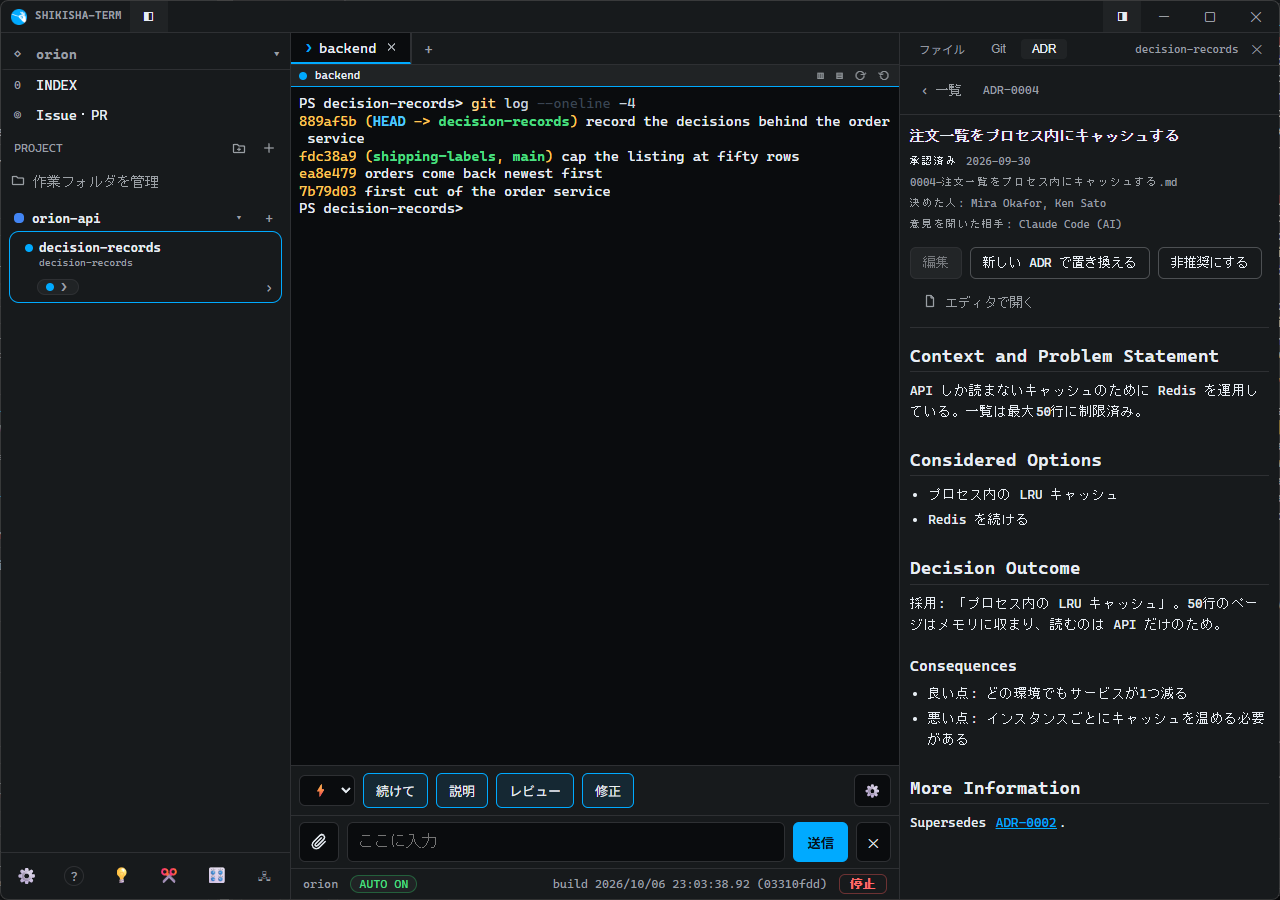
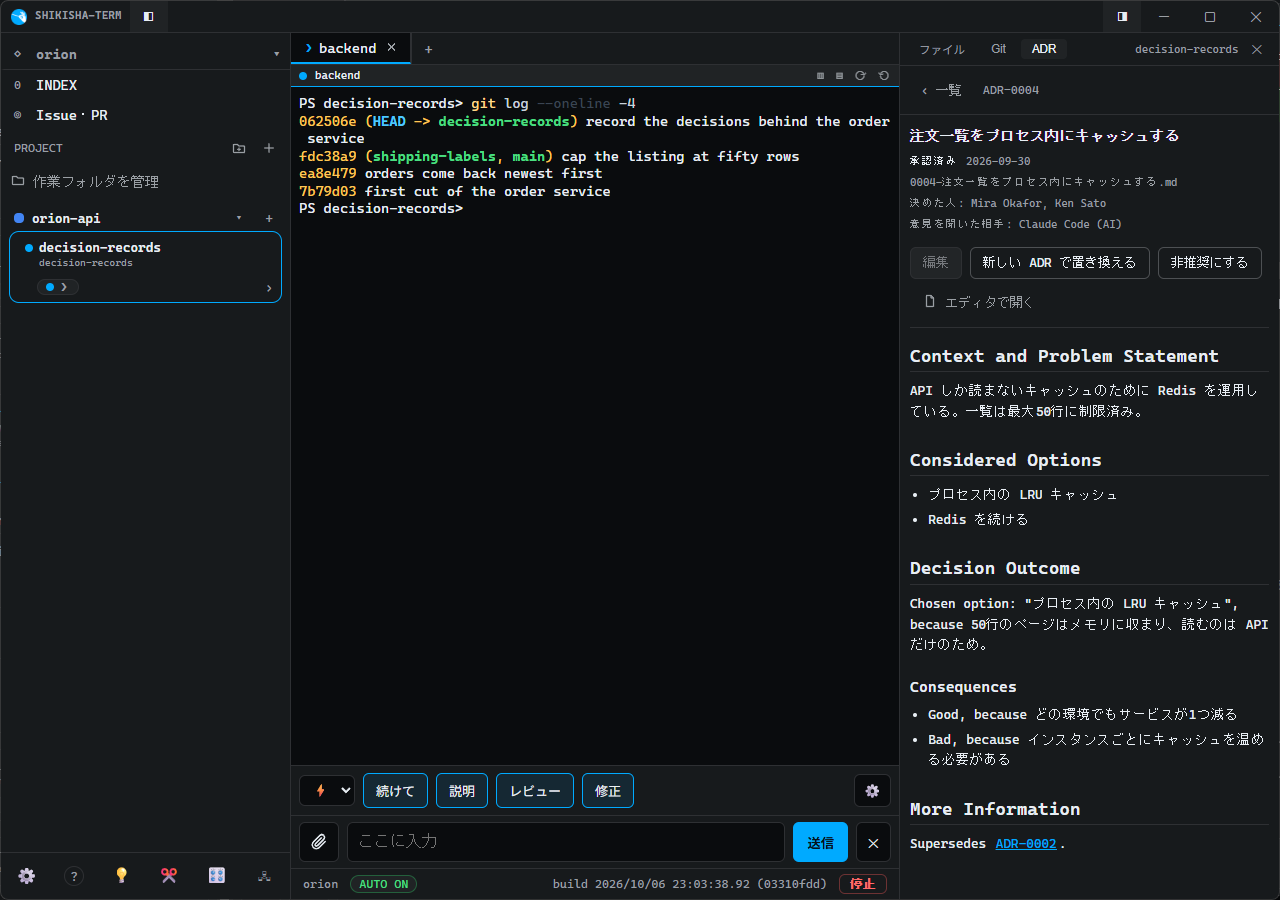
Draft decision records in MADR's own wording, and picture them that way

Changed region(s): [[0.6875, 0.6533, 1.0, 0.9644], [0.9062, 0.7778, 0.9688, 0.8089], [0.25, 0.1244, 0.2812, 0.1556]]

diff --git a/CHANGELOG.md b/CHANGELOG.md
@@ -8,6 +8,13 @@ once it reaches its first tagged release.
 
 ## [Unreleased]
 
+### Changed
+- **A decision record drafted from a conversation reads the way MADR writes
+  it.** The chosen option begins `Chosen option: "...", because ...`, each
+  consequence is a line of its own beginning `Good, because` or `Bad, because`,
+  and each option of the pros and cons has a heading of its own -- in MADR's
+  English words, whatever language the rest is written in.
+
 ## [0.26.0] - 2026-10-06
 
 ### Added
